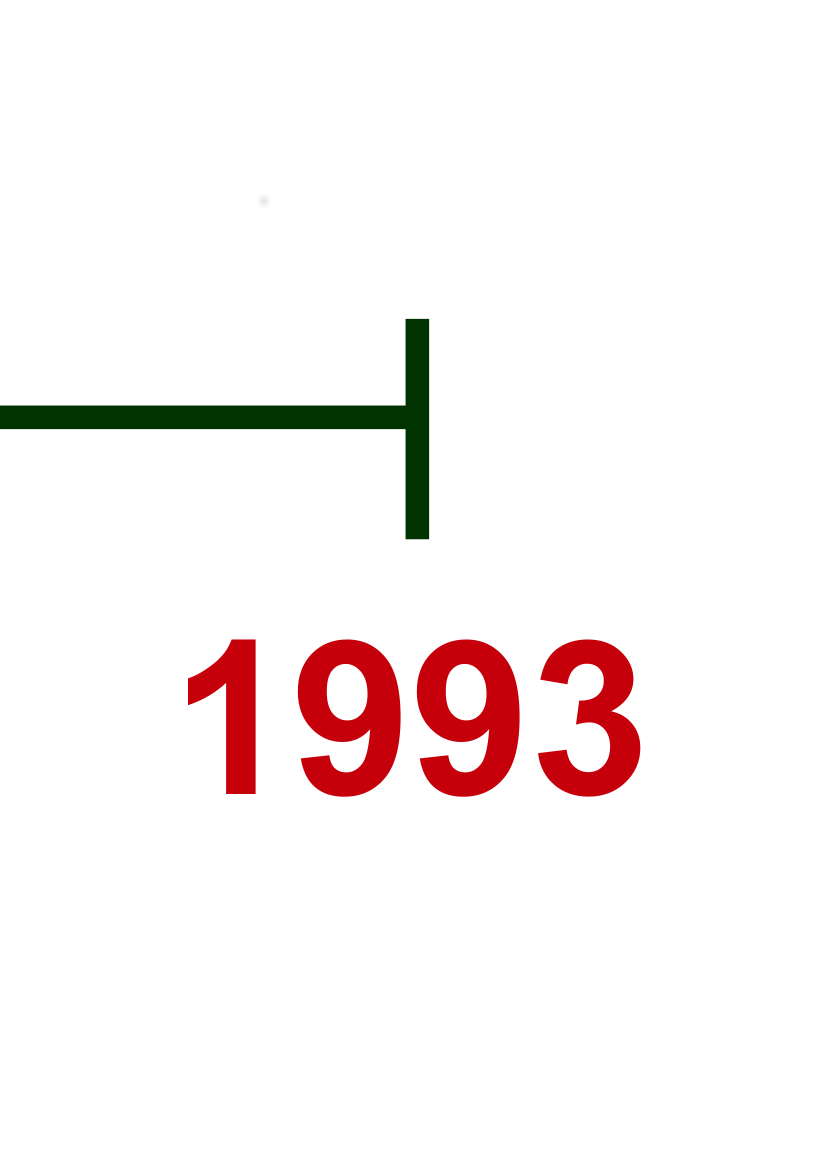
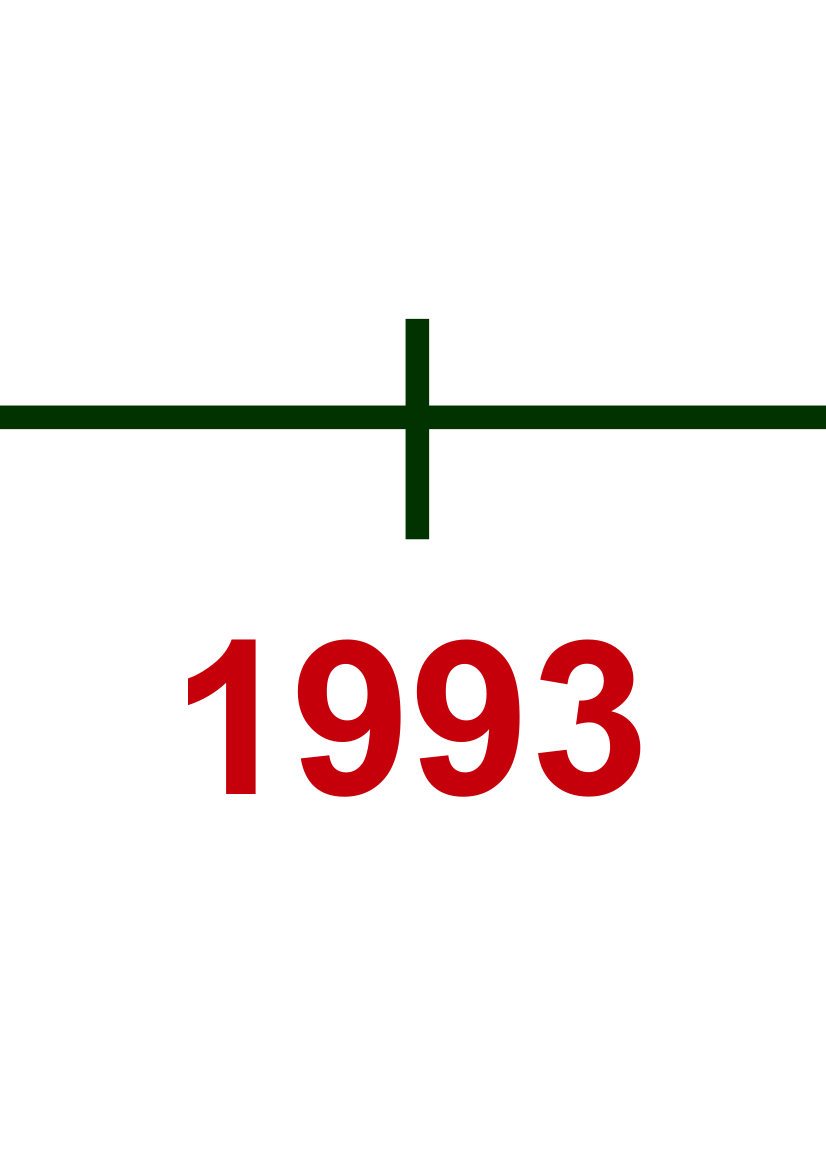
bilder rot neu

Changed region(s): [[0.5145, 0.3388, 1.0, 0.3695]]

diff --git a/src/com/example/nudelvisualization/client/GeoMapVisualization.java b/src/com/example/nudelvisualization/client/GeoMapVisualization.java
@@ -237,12 +237,12 @@ public class GeoMapVisualization extends Visualization {
 		int startYear = 1990;
 		int endYear = 2011;
 		for (int i = startYear; i <= endYear;i++){
-			if (Integer.toString(i).equals(config.getSelectedYearsList().get(0))){
+			//if (Integer.toString(i).equals(config.getSelectedYearsList().get(0))){
 				//yearsButton.add(new Image(Integer.toString(i)+"r.png"));	
 			//}else{
 				yearsButton.add(new Image(Integer.toString(i)+".png"));
 		}
-		}
+		//}
 		for (int j = 0; j<yearsButton.size(); j++){
 			yearsButton.get(j).setPixelSize(45, 50);	
 		}
